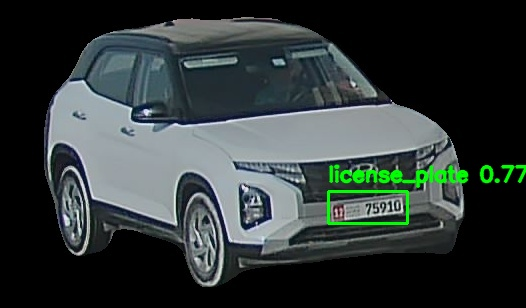
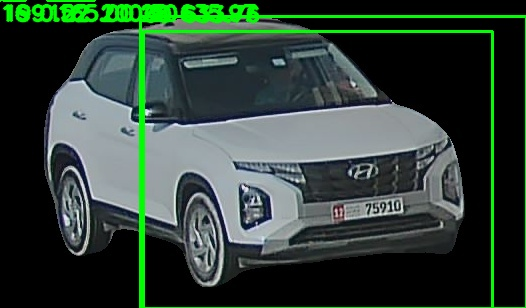
chore: update sample images, coordinates and detector settings

Changed region(s): [[0.0, 0.0, 1.0, 1.0]]

diff --git a/detect_plate.py b/detect_plate.py
@@ -5,13 +5,14 @@ import cv2
 from ultralytics import YOLO
 
 
-def detect_license_plates(model_path, image_path, output_image_path, output_json_path, conf):
+def detect_license_plates(model_path, image_path, output_image_path, output_json_path, conf, model=None):
     image = cv2.imread(str(image_path))
     if image is None:
         raise FileNotFoundError(f"Could not read image: {image_path}")
 
-    model = YOLO(str(model_path), task="detect")
-    result = model(image, optimize=True, verbose=False, conf=conf)[0]
+    if model is None:
+        model = YOLO(str(model_path), task="detect")
+    result = model(image, imgsz=640, device="cpu", verbose=False, conf=conf)[0]
 
     detections = []
     annotated_image = image.copy()
@@ -62,7 +63,7 @@ def detect_license_plates(model_path, image_path, output_image_path, output_json
 
 
 def main():
-    image_name = "4.jpg"
+    image_name = "15.jpg"
     base_dir = Path(__file__).resolve().parent
 
     model_path = base_dir / "license_plate_detector_int8_openvino_model"

diff --git a/coordinates_2_crop_straightened.py b/coordinates_2_crop_straightened.py
@@ -2,18 +2,18 @@ import cv2
 import numpy as np
 
 # Load the image
-img = cv2.imread('14a.jpg')
+img = cv2.imread('15.jpg')
 
 # Define your 4 points (e.g., [[x1,y1], [x2,y2], [x3,y3], [x4,y4]])
 # Order: Top-left, top-right, bottom-right, bottom-left
-x1= 362
-x2= 452
-x3= 452
-x4= 363
-y1= 277
-y2= 270
-y3= 290
-y4= 297
+x1= 542
+x2= 572
+x3= 546
+x4= 575
+y1= 364
+y2= 339
+y3= 406
+y4= 377
 pts = np.array([[x1, y1], [x2, y2], [x3, y3], [x4, y4]], dtype=np.float32)
 
 # Calculate width and height of the new cropped image

diff --git a/detect_plate_4points.py b/detect_plate_4points.py
@@ -173,7 +173,7 @@ def detect_and_straighten_plates(
 def main():
     base_dir = Path(__file__).resolve().parent
     detections = detect_and_straighten_plates(
-        model_path=base_dir / "license_plate_detector_int8_openvino_model",
+        model_path=base_dir / "best_int8_openvino_model",
         image_path=base_dir / "14.jpg",
         output_image_path=base_dir / "plate_detected3.jpg",
         output_json_path=base_dir / "coordinates2.json",
